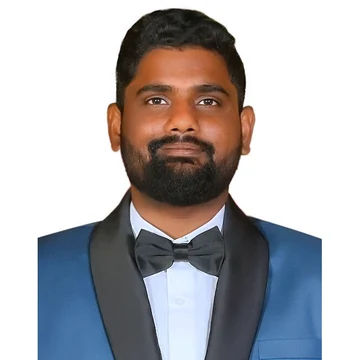
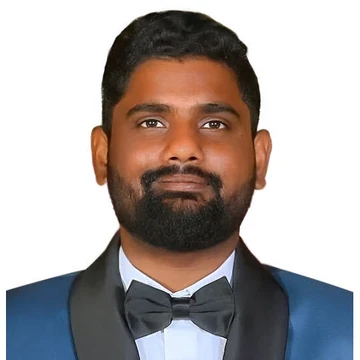
Enlarge team card photos and rebalance Varun's crop
Card avatars grow from 60px to 84px (60px on phones) and Varun's photo
uses a medium head-and-shoulders crop that stays clear at card size.

Claude-Session: https://claude.ai/code/session_01AJwbtH3nVAWqtrXkxYbvvD

diff --git a/optimadvice-site/index.html b/optimadvice-site/index.html
@@ -515,7 +515,7 @@ h2 em{font-style:normal;color:var(--blue)}
 .member:nth-child(3n+2)::after{background:var(--green)}
 .member:hover{transform:translateY(-4px);box-shadow:var(--sh-lg);border-color:transparent}
 .member:hover::after{transform:scaleY(1)}
-.avatar{flex-shrink:0;width:60px;height:60px;border-radius:50%;padding:2px;background:conic-gradient(from 200deg,#7FB0FF,#2F6BDB,#7FB0FF);position:relative}
+.avatar{flex-shrink:0;width:84px;height:84px;border-radius:50%;padding:2px;background:conic-gradient(from 200deg,#7FB0FF,#2F6BDB,#7FB0FF);position:relative}
 .avatar.g{background:conic-gradient(from 200deg,#B6E37C,#4F8A1F,#B6E37C)}
 .avatar.s{background:conic-gradient(from 200deg,#9AA6BF,#0F2148,#9AA6BF)}
 .avatar i{width:100%;height:100%;border-radius:50%;display:grid;place-items:center;background:#fff;font-style:normal;font-family:var(--display);font-weight:700;font-size:16px;color:var(--blue-d)}
@@ -551,7 +551,7 @@ h2 em{font-style:normal;color:var(--blue)}
   .member{flex-direction:column;text-align:center;gap:10px;padding:18px 8px 16px;border-radius:18px}
   .member::after{left:0;right:0;top:auto;bottom:0;width:auto;height:3px;transform:scaleX(0)}
   .member:hover::after{transform:scaleX(1)}
-  .avatar{width:48px;height:48px}
+  .avatar{width:60px;height:60px}
   .avatar i{font-size:14px}
   .member b{font-size:14px}
   .member span{font-size:12px}
@@ -1452,7 +1452,7 @@ footer{background:var(--navy-3);color:var(--navy-body);padding:72px 0 32px;font-
 
   /* Team profiles: replace the placeholders below with each person's real details. Optional photo: a data URI or image URL */
   var TEAM = [
[2 lines of base64/hex data omitted]
     {name:'[Name]', role:'[Role]', bio:'[Short bio: two or three sentences about their background, what they handle at OptimAdvice and the kind of work they focus on.]', focus:['[Focus area]','[Focus area]','[Focus area]']},
     {name:'[Name]', role:'[Role]', bio:'[Short bio: two or three sentences about their background, what they handle at OptimAdvice and the kind of work they focus on.]', focus:['[Focus area]','[Focus area]','[Focus area]']},
     {name:'[Name]', role:'[Role]', bio:'[Short bio: two or three sentences about their background, what they handle at OptimAdvice and the kind of work they focus on.]', focus:['[Focus area]','[Focus area]','[Focus area]']},
